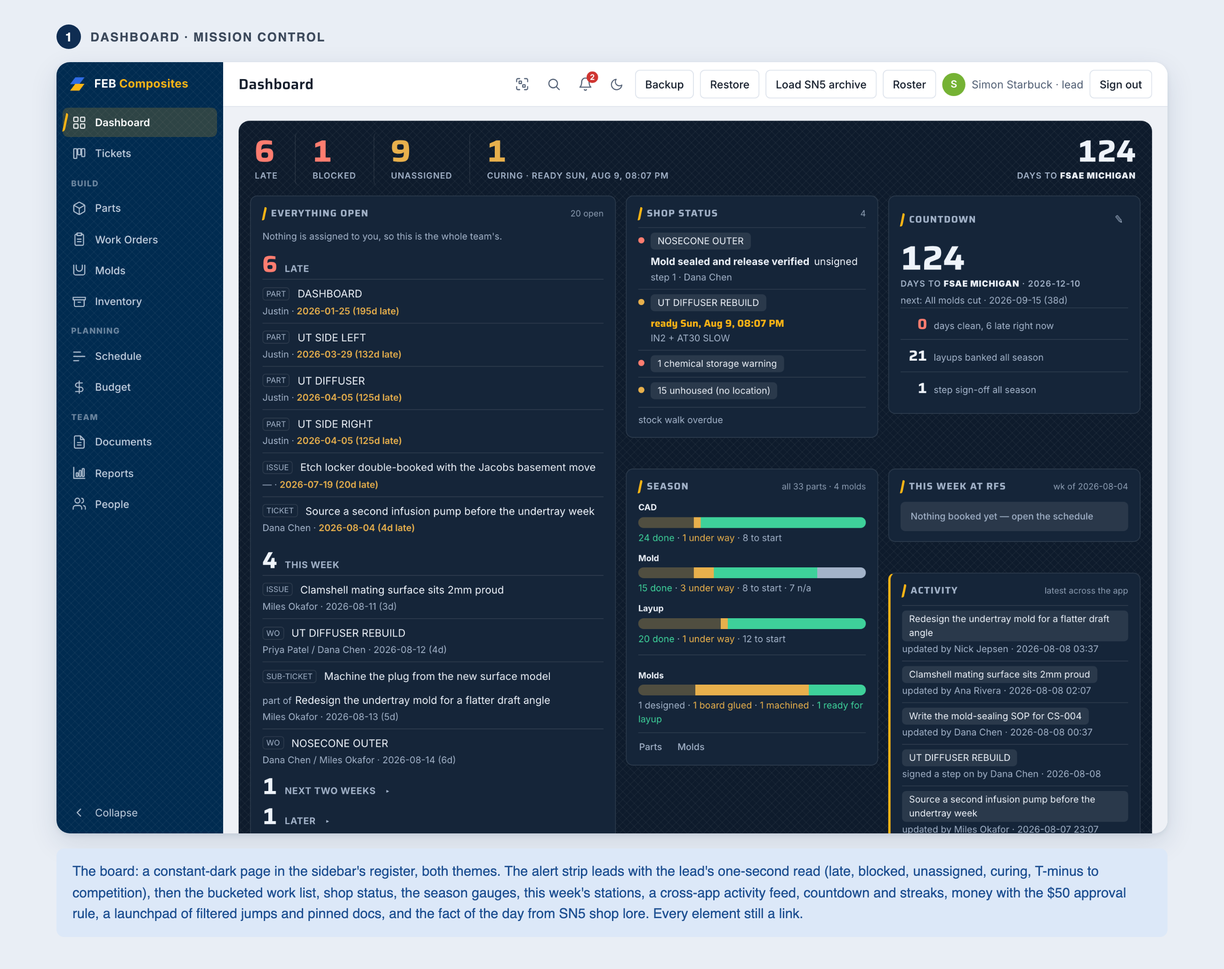
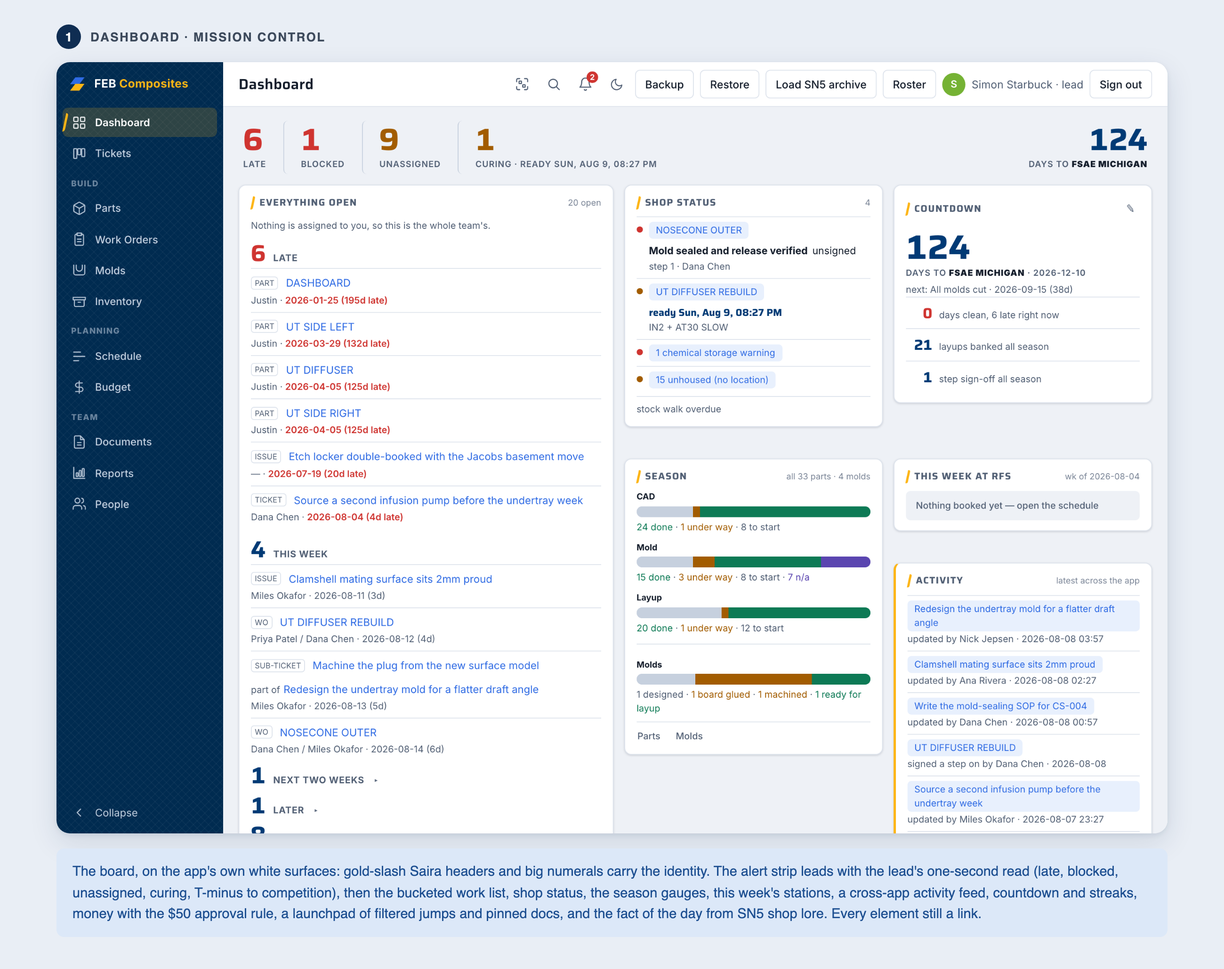
The board goes white, and gives the Tickets kanban its class back
Simon reviewed round four: keep the mission-control board, lose the navy.
The dashboard now sits on the app's ordinary surfaces, both themes for
free: .bmod is the standard card recipe (card/line/shadow tokens) on its
own class, the alert strip's numerals are bare on the canvas in
--brand-ink with --bad/--amber/--ok when hot, and the identity comes from
structure instead of a dark panel: the module grid, the big Saira
numerals, and the gold speed slash on every module header. The --board-*
token family is deleted from both token homes, the carbon crosshatch
container is gone, and every dark-only recolor override (.srow, .chip,
.status, season bars, severity dots) is deleted because the defaults are
already correct on light.

He also flagged the Tickets right pane turning black, which was a class
collision, not a leak: .board has been the Tickets kanban's class since
that tab existed, and round four stole the name, so the dashboard's dark
grid rules repainted the kanban (stylesheet order made the later rules
win). The dashboard container is now .dboard; the kanban keeps .board
exactly as it was. The board CSS comment and SESSION-STATE both carry the
warning not to reuse .board.

Verified with screenshots of both tabs plus the full browser sweep:
test_app 397, designsystem 23, appui 1242 across all fourteen tabs, four
widths, both themes. Dashboard mockup regenerated in place, READMEs and
the mockup caption updated in the same push.

diff --git a/03 App/app/index.html b/03 App/app/index.html
@@ -68,16 +68,6 @@
        invisible against a dark surface. */
     --shadow-edge: rgba(10,22,40,.20);
     --carbon: rgba(255,255,255,.04);
-    /* the mission-control board (dashboard). A constant-dark surface family in
-       the sidebar's register, so the landing page reads as the status board in
-       BOTH themes. Neither --gold on white nor --blue on a dark card clears
-       contrast as a large fill (the logged brand-token defect), so the board
-       carries its own ink, hairline and status colors tuned for the navy. The
-       dark-theme values shift one step deeper so the board still sits above
-       the dark canvas instead of dissolving into it. */
-    --board-bg: #0e1b2c; --board-card: #152539; --board-line: rgba(255,255,255,.10);
-    --board-ink: #eef3fa; --board-muted: #a3b3c9;
-    --board-ok: #3ed19a; --board-warn: #e8b04c; --board-bad: #ff7d70;
     /* motion + type */
     --t: .17s; --t-fast: .12s; --ease: cubic-bezier(.2,.6,.2,1);
     --font: 'Inter', system-ui, -apple-system, "Segoe UI", Roboto, Helvetica, Arial, sans-serif;
@@ -123,9 +113,6 @@
     --shadow: 0 1px 2px rgba(0,0,0,.5); --shadow-md: 0 4px 18px rgba(0,0,0,.55); --shadow-lg: 0 18px 44px rgba(0,0,0,.6);
     --shadow-edge: rgba(0,0,0,.55);
     --carbon: rgba(255,255,255,.03);
-    --board-bg: #0a1322; --board-card: #111e30; --board-line: rgba(255,255,255,.08);
-    --board-ink: #e7edf5; --board-muted: #97a8bf;
-    --board-ok: #35bd8b; --board-warn: #d9a544; --board-bad: #f27166;
   }
   * { box-sizing: border-box; }
   html { -webkit-text-size-adjust: 100%; }
@@ -1641,148 +1628,113 @@
   .gitem .gl { font-size: 11px; color: var(--muted); text-transform: uppercase; }
 
   /* ---- the mission-control board (dashboard round four) ----
-     The landing page becomes the shop status board: one constant-dark surface
-     in the sidebar's register (navy, carbon crosshatch, gold slash, Saira
-     numerals), the app's stated motorsport identity promoted from the nav to
-     a whole page. Constant-dark on purpose, in both themes: a status board
-     reads as a status board whatever the operator's theme is, and the
-     --board-* tokens are tuned so it also sits correctly above the dark
-     canvas. Everything inside uses board ink and the board status triad;
-     the light-theme --bad/--muted/--brand-ink values do not clear contrast
-     on navy and must not appear on board surfaces. Gold is ink and hairline
-     only, never a fill under white text. */
-  .board { display: grid; gap: 13px; padding: 15px; border-radius: var(--r-lg);
-    color: var(--board-ink); background-color: var(--board-bg);
-    background-image: repeating-linear-gradient(45deg, var(--carbon) 0 1px, transparent 1px 7px), repeating-linear-gradient(-45deg, var(--carbon) 0 1px, transparent 1px 7px);
+     The landing page as the shop status board. Round four shipped this as a
+     constant-dark navy panel; Simon liked the board but wanted it white like
+     the rest of the app, so the surfaces now come from the ordinary theme
+     tokens (white cards on canvas, and the dark theme for free) and the
+     board keeps its identity through structure instead: the module grid, the
+     alert strip's bare numerals, and the gold speed slash on every Saira
+     module header. The --board-* token family is gone with the navy.
+     .dboard, NOT .board: that name has belonged to the Tickets kanban since
+     the tab existed, and round four briefly stole it, which painted the
+     ticket pane's kanban navy. Dashboard rules stay under .dboard only. */
+  .dboard { display: grid; gap: 14px;
     grid-template-columns: minmax(0, 1fr);
     /* Phone order is the day's order: what's wrong, what's mine, what's
        booked, what's physically happening. Reference blocks sink. */
     grid-template-areas: "alerts" "work" "week" "shop" "season" "activity" "count" "budget" "launch" "fact"; }
   @media (min-width: 701px) and (max-width: 1100px) {
-    .board { grid-template-columns: minmax(0, 1fr) minmax(0, 1fr);
+    .dboard { grid-template-columns: minmax(0, 1fr) minmax(0, 1fr);
       grid-template-areas: "alerts alerts" "work shop" "work season" "work week" "count activity" "budget launch" "fact fact"; }
   }
   @media (min-width: 1101px) {
-    .board { grid-template-columns: minmax(0, 1.45fr) minmax(0, 1fr) minmax(0, 1fr);
+    .dboard { grid-template-columns: minmax(0, 1.45fr) minmax(0, 1fr) minmax(0, 1fr);
       grid-template-areas: "alerts alerts alerts" "work shop count" "work season week" "work season activity" "launch budget fact"; }
   }
   .b-work { grid-area: work; } .b-shop { grid-area: shop; } .b-season { grid-area: season; }
   .b-week { grid-area: week; } .b-activity { grid-area: activity; } .b-count { grid-area: count; }
   .b-budget { grid-area: budget; } .b-launch { grid-area: launch; } .b-fact { grid-area: fact; }
 
-  /* One module surface. The five-treatments idea from round three collapses
-     back to one here because the board itself is now the different thing;
-     inside it, rhythm comes from the headers and the numerals. */
-  .bmod { min-width: 0; background: var(--board-card); border: 1px solid var(--board-line);
+  /* One module surface: the app's ordinary white card, on its own class
+     because the theme-proof audit samples .card and this page's markup stays
+     out of that sample. Rhythm comes from the headers and the numerals. */
+  .bmod { min-width: 0; background: var(--card); border: 1px solid var(--line); box-shadow: var(--shadow);
     border-radius: var(--r-md); padding: 13px 15px; font-size: 13px; align-self: start; }
   .b-work.bmod { align-self: stretch; font-size: 13.5px; }
   /* Module header: Saira, uppercase, and the sidebar's gold speed slash so
      every module carries the register. Count sits at the right, quiet. */
   .bmod-hd { display: flex; align-items: baseline; justify-content: space-between; gap: 10px; margin: 0 0 9px; }
   .bmod-hd > span:first-child { position: relative; padding-left: 11px; font-family: var(--font-display);
-    font-size: 12.5px; font-weight: 700; text-transform: uppercase; letter-spacing: .07em; color: var(--board-muted); }
+    font-size: 12.5px; font-weight: 700; text-transform: uppercase; letter-spacing: .07em; color: var(--muted); }
   .bmod-hd > span:first-child::before { content: ""; position: absolute; left: 1px; top: 1px; bottom: 1px; width: 3px;
     border-radius: 0 2px 2px 0; background: var(--gold); transform: skewX(-12deg); }
-  .bmod-hd .gh-n { color: var(--board-muted); opacity: .85; }
+  .bmod-hd .gh-n { opacity: .85; }
 
-  /* The alert strip: the page's one-second read. Bare numerals on the board
-     itself, separated by hairlines, no cards. Red only when nonzero. */
+  /* The alert strip: the page's one-second read. Bare numerals straight on
+     the canvas, separated by hairlines, no cards. Red only when nonzero. */
   .b-alerts { grid-area: alerts; display: flex; align-items: stretch; min-width: 0; }
   .b-alert { display: block; flex: 0 1 auto; margin: 0; padding: 4px 22px; text-align: left; cursor: pointer;
-    background: none; border: none; border-left: 1px solid var(--board-line); border-radius: var(--radius); color: var(--board-ink); font: inherit; }
+    background: none; border: none; border-left: 1px solid var(--border-2); border-radius: var(--radius); color: var(--ink); font: inherit; }
   .b-alert:first-child { border-left: none; padding-left: 6px; }
-  .b-alert:hover { background: var(--sb-hover); }
+  .b-alert:hover { background: var(--hover); }
   .b-tminus { margin-left: auto; border-left: none; text-align: right; cursor: pointer; background: none; border: none;
-    border-radius: var(--radius); color: var(--board-ink); font: inherit; padding: 4px 6px 4px 22px; }
-  .b-tminus:hover { background: var(--sb-hover); }
+    border-radius: var(--radius); color: var(--ink); font: inherit; padding: 4px 6px 4px 22px; }
+  .b-tminus:hover { background: var(--hover); }
   .bnum { display: block; font-family: var(--font-display); font-size: 40px; font-weight: 700; line-height: 1.05;
-    letter-spacing: .01em; color: var(--board-ink); font-variant-numeric: tabular-nums; }
-  .bnum.bad { color: var(--board-bad); }
-  .bnum.warn { color: var(--board-warn); }
-  .bnum.ok { color: var(--board-ok); }
-  .bl { display: block; font-size: 11px; font-weight: 600; text-transform: uppercase; letter-spacing: .06em; color: var(--board-muted); margin-top: 2px; }
-  .bl b { color: var(--board-ink); }
+    letter-spacing: .01em; color: var(--brand-ink); font-variant-numeric: tabular-nums; }
+  .bnum.bad { color: var(--bad); }
+  .bnum.warn { color: var(--amber); }
+  .bnum.ok { color: var(--ok); }
+  .bl { display: block; font-size: 11px; font-weight: 600; text-transform: uppercase; letter-spacing: .06em; color: var(--muted); margin-top: 2px; }
+  .bl b { color: var(--ink); }
 
-  /* Row plumbing recolored for the navy. The light-theme --muted/--line/
-     --brand-ink values these classes normally read are illegible here. */
-  .board .srow { border-top-color: var(--board-line); }
-  .board .srow-meta { color: var(--board-muted); }
-  .board .tny, .board .muted { color: var(--board-muted); }
-  .board .kind { color: var(--board-muted); border-color: var(--board-line); }
-  .board .stn-l { color: var(--board-muted); }
-  .board .cure-at { color: var(--gold); }
-  .board .sdot.bad { background: var(--board-bad); }
-  .board .sdot.warn { background: var(--board-warn); }
-  .board .sdot.ok { background: var(--board-ok); }
-  .board .chip { background: var(--sb-hover); border-color: transparent; color: var(--board-ink); }
-  .board .chip:hover { background: var(--sb-active); border-color: transparent; color: #fff; }
-  /* Inside the work list the row title is the row, same de-chroming as the
-     old white card: quiet until hovered. */
-  .b-work .chip { background: none; padding-left: 0; font-size: 13.5px; }
-  .b-work .chip:hover { background: var(--sb-hover); }
-  .board .dgrouphd .dg-label { color: var(--board-muted); }
-  .board .dgrouphd .bnum { font-size: 30px; line-height: 1; }
-  .board .dg-fold > summary:hover .dg-label { color: var(--board-ink); }
-  .board .dg-fold > summary .dgrouphd::after { color: var(--board-muted); }
-  .board .dg-more { background: var(--sb-hover); border-color: transparent; color: var(--board-muted); }
-  .board .dg-more:hover { color: var(--board-ink); border-color: var(--board-line); }
-  .board .gmod-foot { border-top-color: var(--board-line); }
-  .board .dg-more { margin-top: 10px; padding: 9px 12px; font-size: 12px; }
+  /* Inside the work list the row title is the row, same de-chroming as
+     round three's white card: the tint comes back on hover, where it means
+     something. */
+  .b-work .chip { background: none; border-color: transparent; padding-left: 0; font-size: 13.5px; }
+  .b-work .chip:hover { background: var(--accent-soft); border-color: var(--accent-soft); }
+  .dboard .dgrouphd .bnum { font-size: 30px; line-height: 1; }
+  .dboard .dg-more { margin-top: 10px; padding: 9px 12px; font-size: 12px; }
   .b-work .dg-more { margin-top: 12px; padding: 11px 14px; font-size: 13px; }
   /* NEW ACTIVITY keeps its gold rail: gold still means unread, yours, now. */
   .b-activity { border-left: 3px solid var(--gold); }
   .b-activity .bmod-hd .unread-dot { position: static; display: inline-block; margin-right: 5px; vertical-align: middle; }
-  /* SEASON keeps its gauge proportions, links as a quiet text row. */
-  .b-season .sb-bar { height: 14px; }
+  /* SEASON keeps its gauge proportions, links as a quiet text row. The track
+     outranks --fill, which is within a few percent of the card in both
+     themes (the round-three lesson). */
+  .b-season .sb-bar, .b-season .stagebreak .sb-bar { background: var(--border-2); height: 14px; }
   .b-season .stagebreak { margin: 9px 0; }
   .b-season .stagebreak:last-of-type { margin-bottom: 0; }
   .b-season .sb-label { font-size: 11px; }
-  .b-season .ds-links { display: flex; gap: 4px; margin-top: 8px; border-top: 1px solid var(--board-line); }
+  .b-season .ds-links { display: flex; gap: 4px; margin-top: 8px; border-top: 1px solid var(--line); }
   .b-season .ds-links .dg-more { display: inline-block; width: auto; background: none; border-color: transparent; padding: 8px 14px 0 0; margin-top: 0; border-radius: 0; }
-  .b-season .ds-links .dg-more:hover { background: none; border-color: transparent; color: var(--board-ink); }
-  .board .ds-molds { border-top-color: var(--board-line); }
+  .b-season .ds-links .dg-more:hover { background: none; border-color: transparent; color: var(--ink); }
   /* MONEY: the numeral is the module. */
   .b-money { display: flex; align-items: baseline; gap: 9px; margin: 0; padding: 2px 0 4px; text-align: left;
-    background: none; border: none; border-radius: var(--radius); font: inherit; color: var(--board-ink); cursor: pointer; }
-  .b-money:hover { background: var(--sb-hover); }
+    background: none; border: none; border-radius: var(--radius); font: inherit; color: var(--ink); cursor: pointer; }
+  .b-money:hover { background: var(--hover); }
   .b-money .bnum { font-size: 30px; }
-  /* Status pills keep their dot but drop the tinted paper surfaces, which
-     are light pastels that glow on navy. */
-  .board .status { background: var(--sb-hover); border-color: transparent; color: var(--board-ink); }
-  /* Season bars: track and segments re-read against the navy. Counts are
-     also printed as words beside the bar, so hue is never the only carrier. */
-  .board .sb-bar, .board .stagebreak .sb-bar { background: var(--sb-hover); }
-  .board .sb-seg.st-0 { background: var(--sb-active); }
-  .board .sb-seg.st-mid { background: var(--board-warn); }
-  .board .sb-seg.st-done { background: var(--board-ok); }
-  .board .sb-seg.st-na { background: var(--board-muted); }
-  .board .sb-nums .mid { color: var(--board-warn); }
-  .board .sb-nums .done { color: var(--board-ok); }
-  .board .sb-nums .na { color: var(--board-muted); }
-  .board .warn { color: var(--board-warn); }
 
   /* Countdown and streaks. The T-minus numeral is the biggest thing on the
      page after the alert strip; streak rows read like a pit wall column. */
   .b-count .bnum { font-size: 44px; }
   .b-tmin { padding: 2px 0 4px; }
-  .board .icon-btn { color: var(--board-muted); }
-  .board .icon-btn:hover { background: var(--sb-hover); color: var(--board-ink); }
-  .b-streak { display: flex; align-items: baseline; gap: 9px; padding: 6px 0; border-top: 1px solid var(--board-line); }
-  .b-streak .sn { font-family: var(--font-display); font-size: 19px; font-weight: 700; color: var(--board-ink); flex: none; min-width: 34px; text-align: right; font-variant-numeric: tabular-nums; }
-  .b-streak .sn.bad { color: var(--board-bad); }
-  .b-streak .sl { font-size: 12px; color: var(--board-muted); min-width: 0; }
+  .b-streak { display: flex; align-items: baseline; gap: 9px; padding: 6px 0; border-top: 1px solid var(--line); }
+  .b-streak .sn { font-family: var(--font-display); font-size: 19px; font-weight: 700; color: var(--brand-ink); flex: none; min-width: 34px; text-align: right; font-variant-numeric: tabular-nums; }
+  .b-streak .sn.bad { color: var(--bad); }
+  .b-streak .sl { font-size: 12px; color: var(--muted); min-width: 0; }
 
   /* Launchpad tiles: real buttons, tap-target sized, quiet fills. */
   .b-launch .lgrid { display: grid; grid-template-columns: repeat(auto-fill, minmax(118px, 1fr)); gap: 7px; }
   .b-tile { display: flex; flex-direction: column; justify-content: center; gap: 1px; min-height: 44px; min-width: 0;
     margin: 0; padding: 7px 10px; text-align: left; cursor: pointer; font: inherit;
-    background: var(--sb-hover); border: 1px solid transparent; border-radius: var(--radius); color: var(--board-ink); }
-  .b-tile:hover { border-color: var(--board-line); background: var(--sb-active); }
+    background: var(--surface-2); border: 1px solid transparent; border-radius: var(--radius); color: var(--ink); }
+  .b-tile:hover { border-color: var(--border-2); background: var(--hover); }
   .b-tile .tl { font-size: 12.5px; font-weight: 600; overflow: hidden; text-overflow: ellipsis; white-space: nowrap; }
-  .b-tile .tm { font-size: 11px; color: var(--board-muted); overflow: hidden; text-overflow: ellipsis; white-space: nowrap; }
+  .b-tile .tm { font-size: 11px; color: var(--muted); overflow: hidden; text-overflow: ellipsis; white-space: nowrap; }
 
   /* Race day: the one day the board wears gold. */
-  .board.raceday { border-top: 3px solid var(--gold); }
+  .dboard.raceday { border-top: 3px solid var(--gold); padding-top: 10px; }
   /* Fact of the day: prose, one size up, with a gold open-quote garnish. */
   .b-fact .fq { position: relative; margin: 0; padding-left: 20px; font-size: 13.5px; line-height: 1.55; }
   .b-fact .fq::before { content: "\201C"; position: absolute; left: 0; top: -4px; font-family: var(--font-display); font-size: 26px; color: var(--gold); }
@@ -1791,13 +1743,13 @@
   /* Phone: the strip becomes one scrollable chip row so four numerals do not
      spend the first screen. The row is the scroller, never the document. */
   @media (max-width: 700px) {
-    .board { padding: 12px; gap: 11px; }
+    .dboard { gap: 11px; }
     .b-alerts { overflow-x: auto; -webkit-overflow-scrolling: touch; padding-bottom: 2px; }
     .b-alert { flex: 0 0 auto; padding: 4px 14px; }
     .b-tminus { padding-left: 14px; }
     .bnum { font-size: 26px; }
     .b-count .bnum { font-size: 34px; }
-    .board .dgrouphd .bnum { font-size: 24px; }
+    .dboard .dgrouphd .bnum { font-size: 24px; }
   }
 
   /* login */
@@ -2236,9 +2188,6 @@
       --ink: #000; --muted: #333; --faint: #555;
       --canvas: #fff; --card: #fff; --surface: #fff; --surface-2: #fff; --fill: #fff; --hover: #fff;
       --line: #000; --border-2: #000; --brand-ink: #003262;
-      --board-bg: #fff; --board-card: #fff; --board-line: #000;
-      --board-ink: #000; --board-muted: #333;
-      --board-ok: #000; --board-warn: #000; --board-bad: #000;
     }
     @page { size: letter; margin: 0.45in; }
     /* The token block above has just re-pointed these for paper; read them,

diff --git a/06 Design System/tokens.css b/06 Design System/tokens.css
@@ -109,17 +109,6 @@
   /* carbon-fiber crosshatch overlay (sidebar) */
   --carbon: rgba(255,255,255,.04);
 
-  /* ---- the mission-control board (dashboard) ----
-     A constant-dark surface family in the sidebar's register, so the app's
-     landing page reads as the shop status board in BOTH themes. Neither
-     --gold on white nor --blue on a dark card clears contrast as a large
-     fill, so the board carries its own ink, hairline and status colors tuned
-     for the navy; the dark-theme values shift one step deeper so the board
-     still sits above the dark canvas. */
-  --board-bg: #0e1b2c; --board-card: #152539; --board-line: rgba(255,255,255,.10);
-  --board-ink: #eef3fa; --board-muted: #a3b3c9;
-  --board-ok: #3ed19a; --board-warn: #e8b04c; --board-bad: #ff7d70;
-
   /* ---- motion ---- */
   --t: .17s;          /* standard transition */
   --t-fast: .12s;     /* hover / micro-interaction */
@@ -158,9 +147,6 @@
   --shadow-lg: 0 18px 44px rgba(0,0,0,.6);
   --shadow-edge: rgba(0,0,0,.55);
   --carbon: rgba(255,255,255,.03);
-  --board-bg: #0a1322; --board-card: #111e30; --board-line: rgba(255,255,255,.08);
-  --board-ink: #e7edf5; --board-muted: #97a8bf;
-  --board-ok: #35bd8b; --board-warn: #d9a544; --board-bad: #f27166;
 }
 
 @media print {
@@ -171,8 +157,5 @@
     --canvas: #fff; --card: #fff; --surface: #fff;
     --surface-2: #fff; --fill: #fff; --hover: #fff;
     --line: #000; --border-2: #000; --brand-ink: #003262;
-    --board-bg: #fff; --board-card: #fff; --board-line: #000;
-    --board-ink: #000; --board-muted: #333;
-    --board-ok: #000; --board-warn: #000; --board-bad: #000;
   }
 }

diff --git a/03 App/app/dashboard.js b/03 App/app/dashboard.js
@@ -223,8 +223,9 @@ function dashRow(it) {
 }
 
 /* ---------- the page ----------
-   Round four: mission control. One constant-dark board (see the .board CSS
-   block for the surface rationale) holding the whole team state as flat grid
+   Round four: mission control, on the app's ordinary light surfaces (Simon
+   liked the board, not the navy). One grid (.dboard, NOT .board, which is
+   the Tickets kanban's class) holding the whole team state as flat
    children, so the phone re-orders it with grid-template-areas alone. The
    alert strip leads because "what is late, blocked, unassigned or curing" is
    the lead's one-second read; the work list keeps round three's proven
@@ -251,7 +252,7 @@ function renderDashboard() {
   const unassigned = open.filter(i => !i.who);
 
   const raceday = window.SEASON && SEASON.compDate === today();
-  return `<div class="board${raceday ? " raceday" : ""}">
+  return `<div class="dboard${raceday ? " raceday" : ""}">
     ${dashAlerts(late.length, blocked.length, unassigned.length, curing)}
     <div class="bmod b-work" id="dash-list">
       <div class="bmod-hd"><span>${showTeam ? "Everything open" : "Your work"}</span><span class="gh-n">${list.length} open</span></div>

diff --git a/README.md b/README.md
@@ -47,12 +47,12 @@ with an email allowlist for the roster. It updates live for everyone and works
 on phones and tablets as well as desktop. The full manual, setup and
 architecture live in `03 App/app/README.md`; this is the short tour.
 
-![Dashboard: the mission-control board, a constant-dark page with the alert strip leading](03%20App/design/dashboard-mockup-20260808.png)
+![Dashboard: the mission-control board on the app's white surfaces, alert strip leading](03%20App/design/dashboard-mockup-20260808.png)
 
 Eleven tabs, grouped in the sidebar by who is asking (Dashboard and Tickets
 up top, then Build, Planning, and Team):
 
-- **Dashboard:** the board, and the page you land on. It is the one deliberately different page in the app: constant-dark in both themes, built from the sidebar's own navy, carbon crosshatch and gold slash, so it reads as the shop's status board. The alert strip leads with the lead's one-second read (late, blocked, unassigned, curing, and T-minus to the competition a lead configures in one modal), then the bucketed work list, shop status with severity dots, the season bars, this week's stations, a cross-app activity feed built from the updatedAt every record already carried, countdown and streaks, money including the $50 approval rule, a launchpad of filtered jumps plus the pinned docs, and a fact of the day drawn from the team's own SN5 documentation. Read-only; every element links into the tab it came from; on a phone it reorders to today-first.
+- **Dashboard:** the board, and the page you land on. It shares the app's white-card surfaces but reads as the shop's status board: a dense module grid, bare Saira numerals, and the sidebar's gold speed slash on every module header. The alert strip leads with the lead's one-second read (late, blocked, unassigned, curing, and T-minus to the competition a lead configures in one modal), then the bucketed work list, shop status with severity dots, the season bars, this week's stations, a cross-app activity feed built from the updatedAt every record already carried, countdown and streaks, money including the $50 approval rule, a launchpad of filtered jumps plus the pinned docs, and a fact of the day drawn from the team's own SN5 documentation. Read-only; every element links into the tab it came from; on a phone it reorders to today-first.
 - **Tickets:** a jira-style tracker for everything that is not a part: R&D, process fixes, bugs, outreach. A rail of every ticket (sub-tickets nested under their parent) beside the kanban board, a lineage bar tying sub-tickets to their parent and issues to their work order and part, and rich-text comments with photos, newest first.
 - **Work Orders:** the manufacturing traveler, as a split view like Parts and Molds. The rail indexes every run grouped by the part it builds, so the tab reads as the part → run → mold hierarchy; each row carries how far through its buy-offs it is, and whether it is blocked or curing. Parts nobody has started show up too, with the button that starts one. Group, sort and filter are yours to set. The pane keeps the whole record in one scroll, Steps first because that is the bench action, with a bar above it that jumps to Overview, Stack & BOM, Quality, Files or Notes and carries a count per section plus a dot when something in one needs attention. What is true of the whole record (which run it is, its status, the lineage, and anything blocking it) stays above that bar. Layup stack, BOM, step buy-offs stamped with who signed, blocker steps, and enforced cure holds backed by the datasheets in `resins.js`. Prints to a hand-fillable sheet that is always exactly two pages.
 - **Parts:** the season tracker as a split view: every part down the left, the selected one beside it, each stage a row of steps you click. Arrow keys walk the list; `1`/`2`/`3` advance the stages.

diff --git a/SESSION-STATE.md b/SESSION-STATE.md
@@ -9,6 +9,33 @@ questions. Not a transcript.
 
 ---
 
+Last updated: 2026-08-07 (evening)
+Status: **The board went white (2026-08-07).** Simon reviewed round four and
+asked for a white background like the rest of the app, and flagged that the
+Tickets right pane had gone black too. Both fixed in one commit:
+
+- The dark treatment is gone entirely: the `--board-*` token family removed
+  from both token homes, the navy/carbon container removed, `.bmod` is now
+  the ordinary card recipe (card/line/shadow tokens) on its own class, and
+  all the dark-only recolor overrides (.srow/.chip/.status/season bars/
+  sdot) are deleted since the defaults are correct on light. Identity now
+  comes from structure: the module grid, bare Saira numerals
+  (--brand-ink/--bad/--amber/--ok), and the gold slash headers.
+- The black Tickets pane was a CLASS COLLISION, not a leak: `.board` has
+  been the Tickets kanban's class since the tab existed, and round four
+  stole it, so the dashboard's dark grid rules repainted the kanban. The
+  dashboard container is now **`.dboard`**; the kanban keeps `.board`
+  untouched. Do not reuse `.board` for anything new.
+- Everything else from round four stands unchanged: modules, alert strip,
+  config/season, feed, facts, launchpad, fixtures, and the round-four
+  decisions list below except its constant-dark item.
+
+Suites after the change: test_app 397, designsystem 23, appui full sweep
+1242, all green. Mockup regenerated in place (same 20260808 filename),
+READMEs and captions updated. Pushed to main and deployed.
+
+Previous status follows.
+
 Last updated: 2026-08-07 (later)
 Status: **Dashboard round four: mission control (2026-08-07).** Branch
 `mold-drawing-revamp`, nine commits on top of the Tickets revamp. All suites

diff --git a/03 App/app/README.md b/03 App/app/README.md
@@ -24,12 +24,14 @@ The screenshots through this file regenerate with
 
 ![Dashboard: the mission-control board](../design/dashboard-mockup-20260808.png)
 
-The landing page is the board: the one deliberately different page in the
-app, constant-dark in both themes and built from the sidebar's own register
-(navy, carbon crosshatch, gold speed slash, Saira numerals) via the
-`--board-*` token family. Read-only; every element links into the tab it
-came from; on a phone the grid re-declares its areas into a today-first
-stack with no second render path.
+The landing page is the board. It shares the app's ordinary white-card
+surfaces (Simon's call: the mission-control layout, not the navy panel it
+briefly shipped as), and reads as a status board through structure instead:
+a dense module grid, the alert strip's bare Saira numerals, and the
+sidebar's gold speed slash on every module header. Read-only; every element
+links into the tab it came from; on a phone the grid re-declares its areas
+into a today-first stack with no second render path. The grid class is
+`.dboard`, because `.board` belongs to the Tickets kanban.
 
 The **alert strip** leads with the lead's one-second read, team-wide
 regardless of the list toggle below: late, blocked, unassigned (open work
